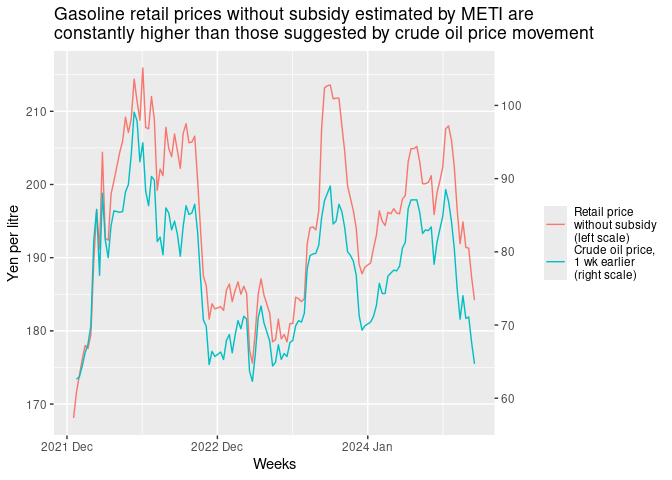
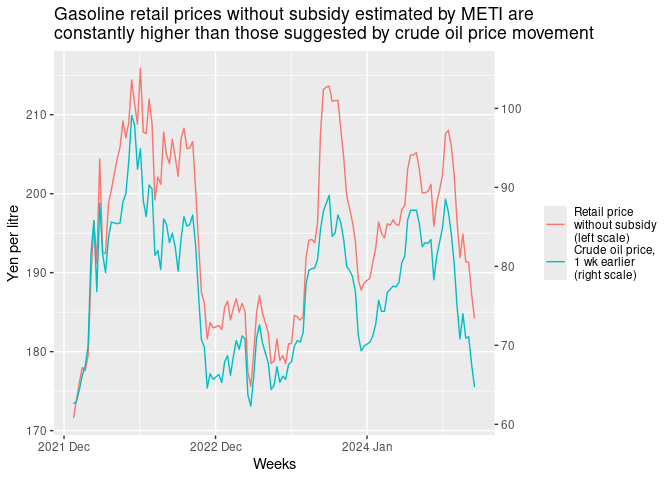
cut 2022 W03 as it includes NA

diff --git a/README.md b/README.md
@@ -72,9 +72,6 @@ subsidies, actual gasoline prieces and effects of subsidies, which are
 differences between counterfacual and actual, all in the units of yen /
 litre every week.
 
-    ## Warning: Removed 1 row containing missing values or values outside the scale range
-    ## (`geom_line()`).
-
 ![](README_files/figure-gfm/meti_vs_crude-1.png)<!-- -->
 
 ### Dubai crude oil price (monthly)
